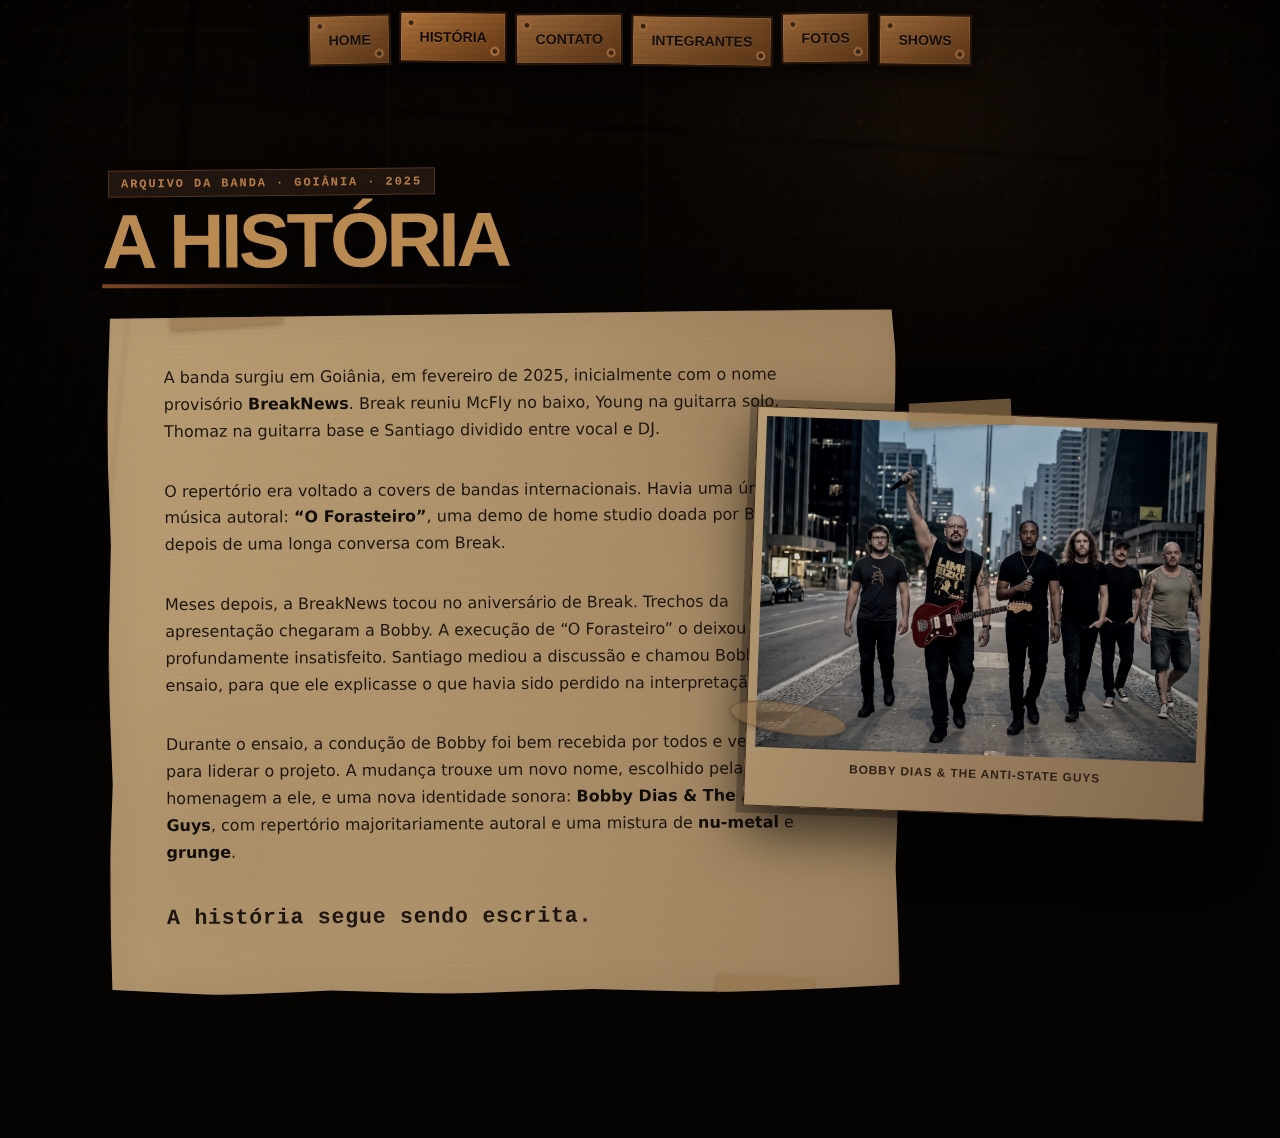
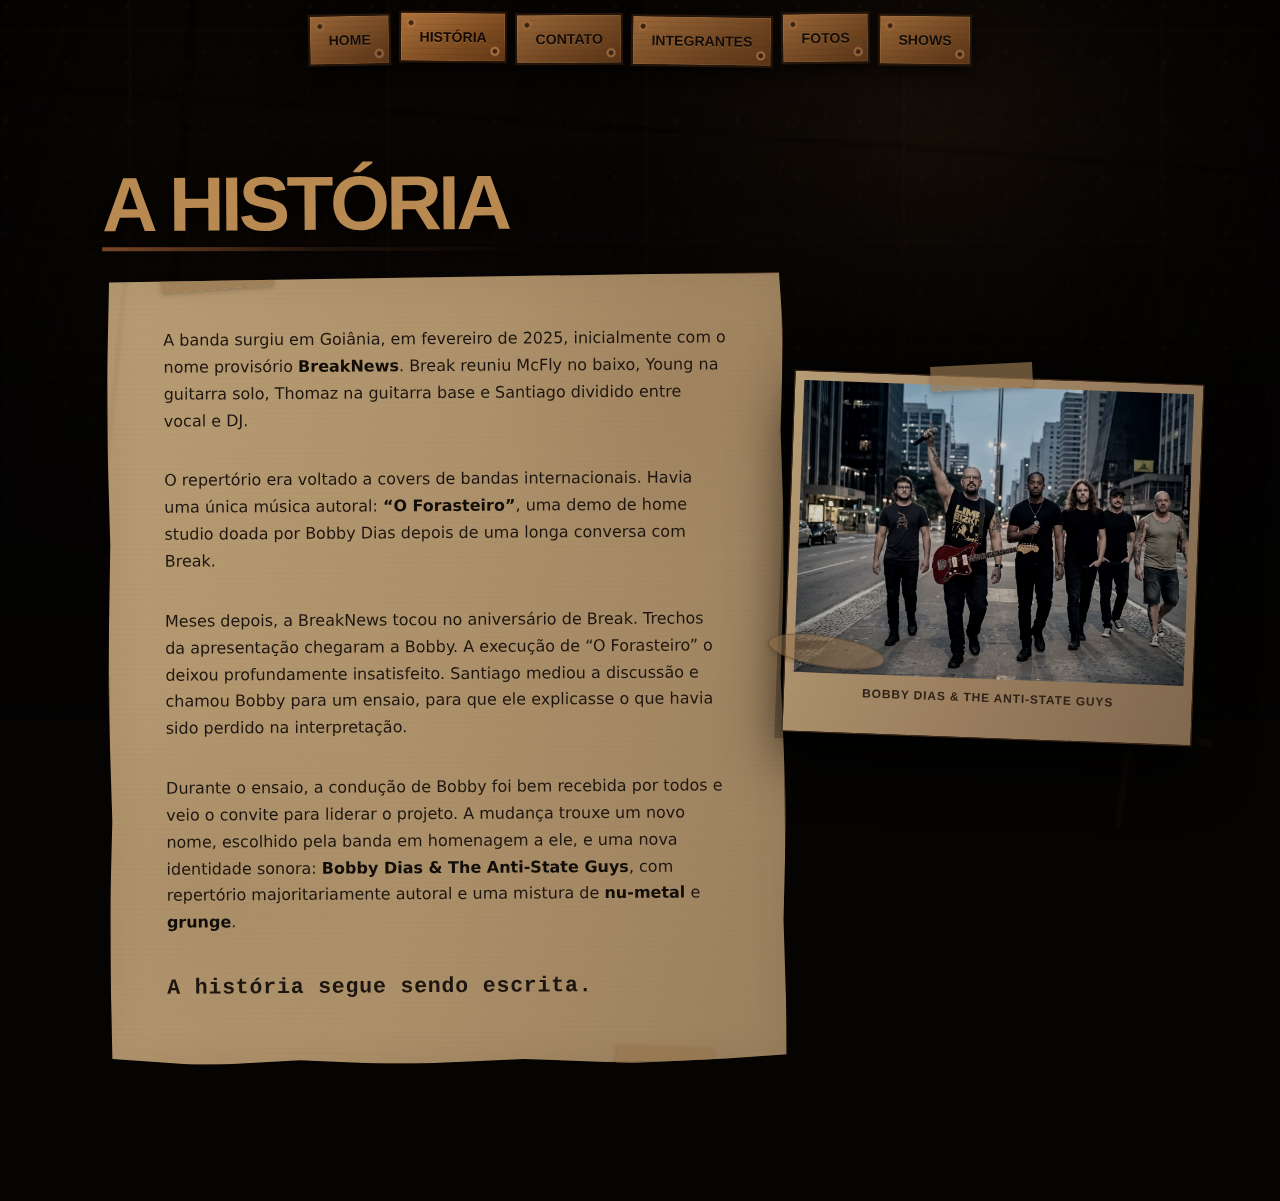
test: persist scenic v2 visual QA preview

Changed region(s): [[0.0625, 0.123, 0.9688, 0.8919], [0.25, 0.0, 0.75, 0.0615], [0.125, 0.7996, 0.4688, 0.8304]]

diff --git a/QA-VERIFY.md b/QA-VERIFY.md
@@ -3,6 +3,6 @@
 - Result: PASS
 - Browser: Chromium / Playwright 1.55.0
 - Tested: desktop 1672x941, desktop 1440x900, mobile 390x844, all internal routes, image decoding, music catalog and persistent audio element.
-- Source commit: 89d5fa4f11ac58b14e949621d83ea788bd8e4e43
+- Source commit: e527a59f5e551375d90d7f986232196073360e2d
 
 Temporary screenshots are stored in `.qa-preview/` for design review and must be removed before production merge.
